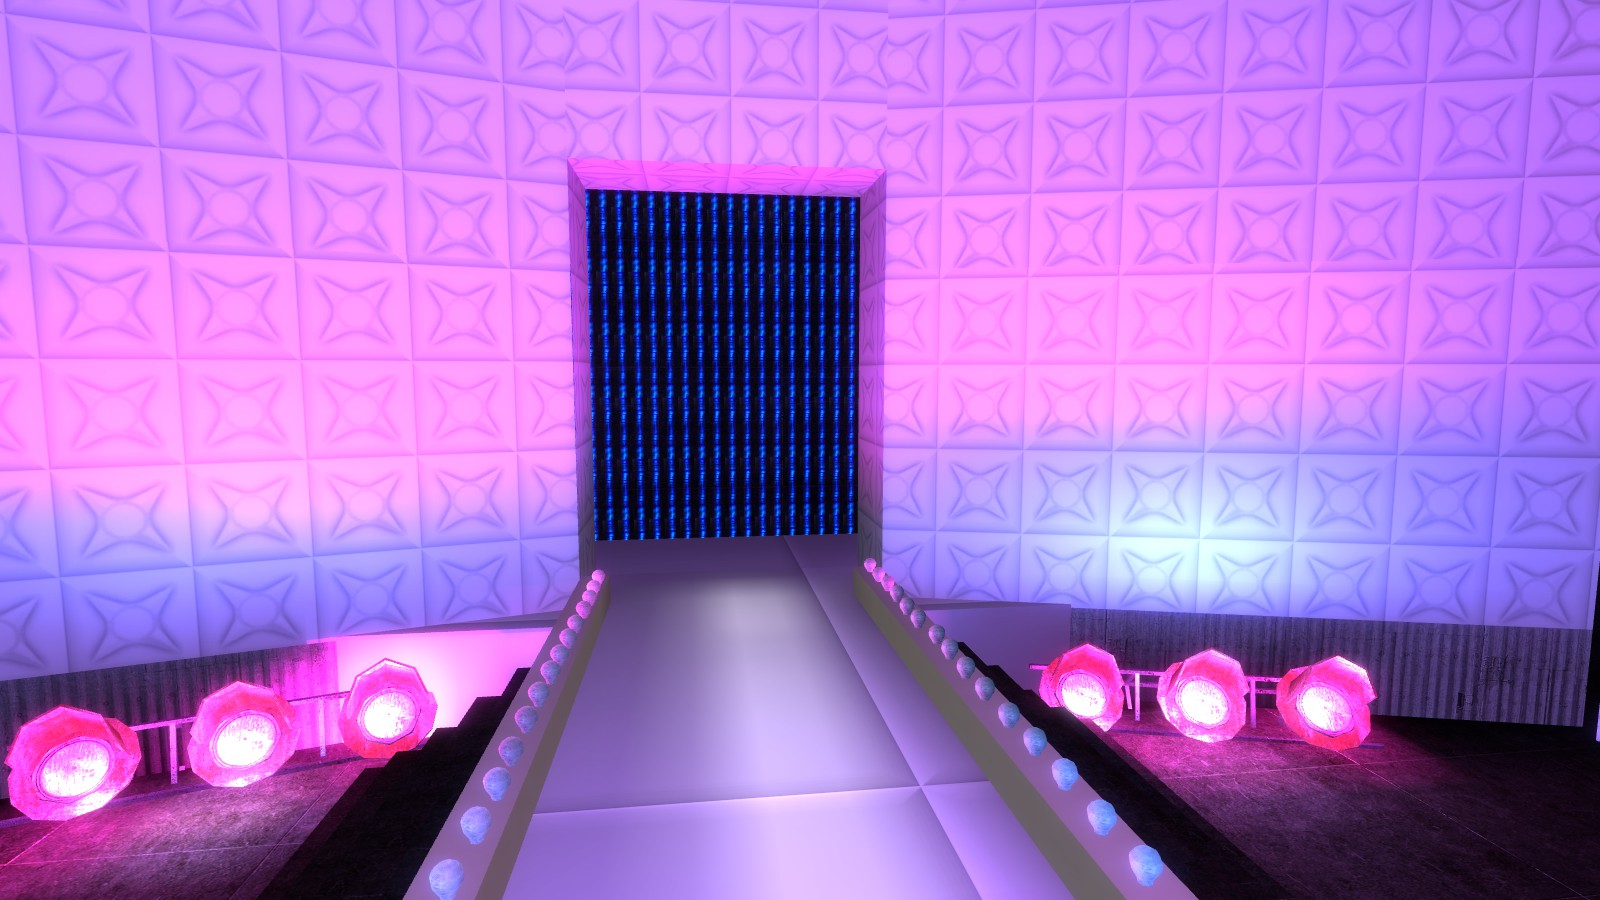
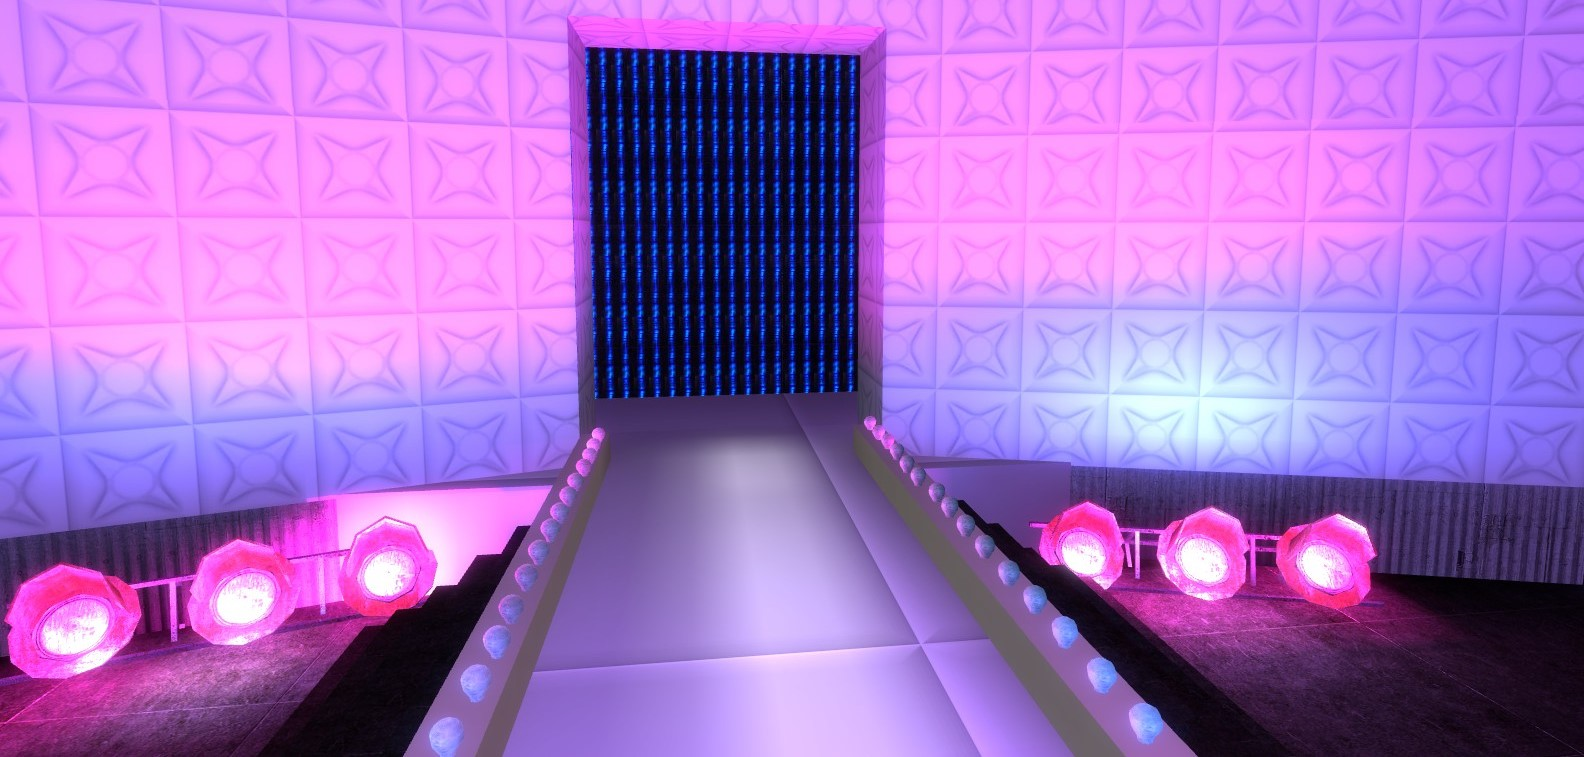
fixed easter egg

diff --git a/public/js/mainPage.js b/public/js/mainPage.js
@@ -601,8 +601,6 @@ function clearList() {
     currentListItems.forEach(item => {
         currentList.removeChild(item)
     })
-    console.log("Successfully cleared list")//just for troubleshooting
-    //add functionality to clear list name as well 
 }
 
 
@@ -642,19 +640,21 @@ function generateQueen(queenPhotos, queenQuotes) {
             let randomQueen = Math.floor(Math.random() * queenPhotos.length)
             let queenQuote = new Audio()
             queenQuote.src = queenQuotes[randomQueen]
-            let bottomValue = 200
-            let leftValue = 25
+            let bottomValue = 50
+            let leftValue = 17
             let queenDisplay = document.createElement("img")
             queenDisplay.src = queenPhotos[randomQueen]
             queenDisplay.classList.add("queen")
             document.body.appendChild(queenDisplay)
-            queenDisplay.style.height = "300px"
-            queenDisplay.style.width = "200px"
+            queenDisplay.style.height = "45vh"
+            queenDisplay.style.width = "32vw"
             queenDisplay.style.zIndex = 2
             queenDisplay.style.position = "absolute"
-            queenDisplay.style.bottom = bottomValue + "%"
-            queenDisplay.style.left = leftValue + "%"
-            queenDisplay.onclick = queenQuote.play()
+            queenDisplay.style.bottom = bottomValue + "vh"
+            queenDisplay.style.left = leftValue + "vw"
+            queenDisplay.onclick = function() {
+                queenQuote.play()
+            }
             moveQueen(queenDisplay, bottomValue, leftValue)
             queenPhotos.splice(randomQueen, 1)
             queenQuotes.splice(randomQueen, 1)
@@ -665,11 +665,11 @@ function generateQueen(queenPhotos, queenQuotes) {
 
 function moveQueen(queen, bottomValue, leftValue) {
     setInterval(function () {
-        if (bottomValue > 150) {
-            bottomValue = bottomValue - 0.25
-            queen.style.bottom = bottomValue + "%"
-            leftValue = leftValue + 0.25
-            queen.style.left = leftValue + "%"
+        if (bottomValue > 10) {
+            bottomValue = bottomValue - 2
+            queen.style.bottom = bottomValue + "vh"
+            leftValue = leftValue + 0.75
+            queen.style.left = leftValue + "vw"
 
         } else {
             document.body.removeChild(queen)

diff --git a/public/css/style.css b/public/css/style.css
@@ -2,8 +2,10 @@
     display: none;
     margin: auto;
     background-image: url("/images/rupaulstage.jpg");
-    background-size: cover;
+    width: 100vw;
+    height:100vh;
     background-position: center;
+    background-size: cover;
 }
 
 @media (min-width: 1025px) {
